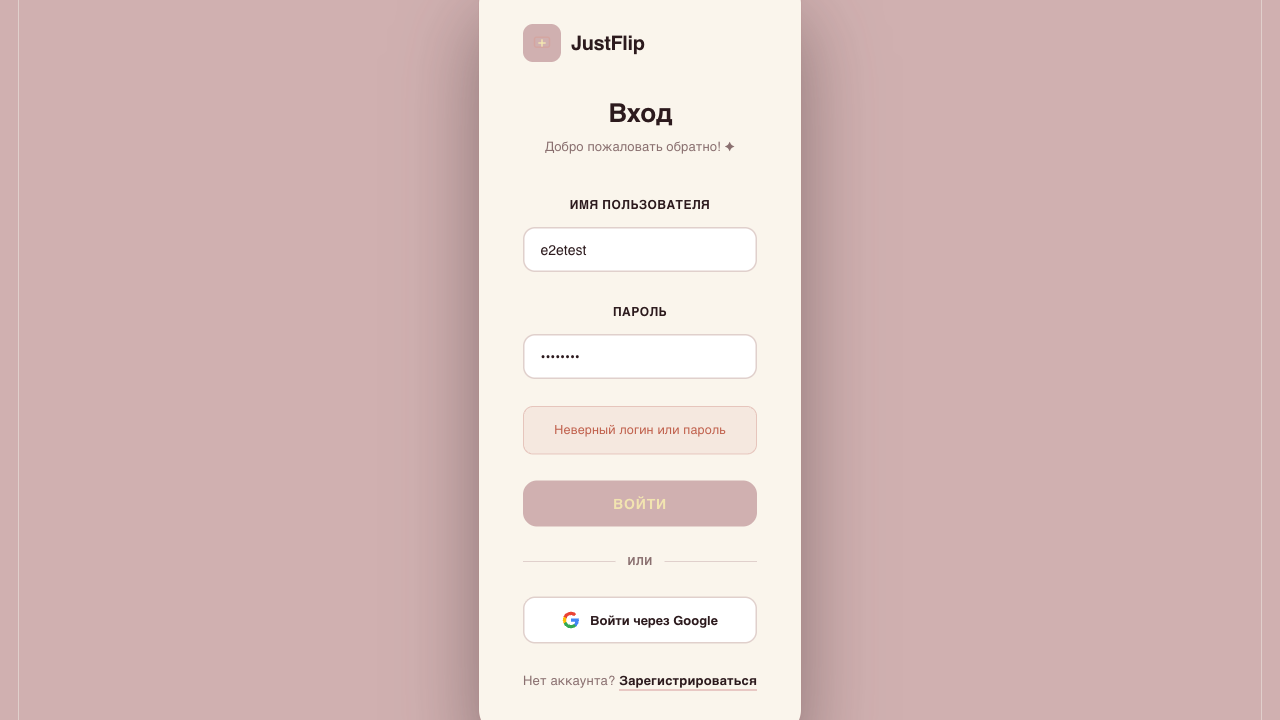
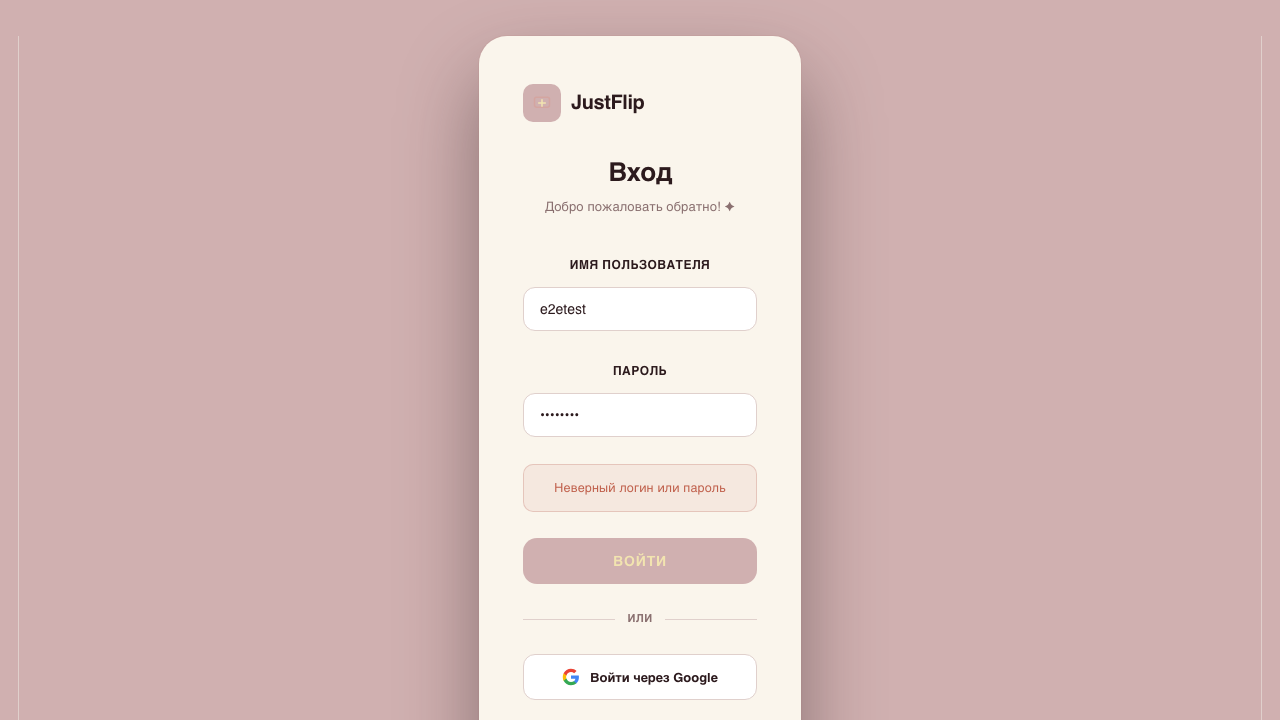
nothing

diff --git a/justflip-frontend/playwright-report/index.html b/justflip-frontend/playwright-report/index.html
@@ -87,4 +87,4 @@ Error generating stack: `+l.message+`
     <div id='root'></div>
   </body>
 </html>
[2 lines of base64/hex data omitted]

diff --git a/justflip-frontend/src/pages/Dashboard.jsx b/justflip-frontend/src/pages/Dashboard.jsx
@@ -21,7 +21,6 @@ function Dashboard() {
   const [showEditModal, setShowEditModal] = useState(false)
   const [editTitle, setEditTitle] = useState('')
   const [editDescription, setEditDescription] = useState('')
-
   const navigate = useNavigate()
 
   useEffect(() => {

diff --git a/justflip-frontend/test-results/auth-Авторизация-выход-из-аккаунта-chromium/error-context.md b/justflip-frontend/test-results/auth-Авторизация-выход-из-аккаунта-chromium/error-context.md
@@ -70,13 +70,13 @@ Call log:
   7  |     
   8  |     await page.goto('http://localhost:5173/register')
   9  |     
-  10 |     // ✅ Селекторы по ID
+  10 |     // Селекторы по ID
   11 |     await page.fill('#username', username)
   12 |     await page.fill('#email', `${username}@test.com`)
   13 |     await page.fill('#password', 'Test123!')
   14 |     await page.click('button[type="submit"]')
   15 |     
-  16 |     // ✅ Ждём элемент дашборда
+  16 |     // Ждём элемент дашборда
   17 |     await page.waitForSelector('.logo-text', { timeout: 20000 })
   18 |     await expect(page.locator('.logo-text')).toContainText('JustFlip')
   19 |   })
@@ -96,7 +96,7 @@ Call log:
   33 |   })
   34 | 
   35 |   test('выход из аккаунта', async ({ authenticatedPage }) => {
-  36 |     // ✅ Кнопка "Выйти" имеет класс btn-logout
+  36 |     // Кнопка "Выйти" имеет класс btn-logout
 > 37 |     await authenticatedPage.click('button.btn-logout')
      |                             ^ Error: page.click: Test timeout of 30000ms exceeded.
   38 |     await authenticatedPage.waitForSelector('#username', { timeout: 10000 })

diff --git a/justflip-frontend/test-results/deck-management-Управление-колодами-добавление-слов-в-колоду-chromium/error-context.md b/justflip-frontend/test-results/deck-management-Управление-колодами-добавление-слов-в-колоду-chromium/error-context.md
@@ -69,7 +69,7 @@ Call log:
   6  |   })
   7  | 
   8  |   test('создание новой колоды', async ({ authenticatedPage: page }) => {
-  9  |     // ✅ Кнопка в хедере имеет класс btn-new-deck
+  9  |     // Кнопка в хедере имеет класс btn-new-deck
   10 |     await page.click('button.btn-new-deck')
   11 |     
   12 |     await page.fill('#title', 'E2E Test Deck')
@@ -92,7 +92,7 @@ Call log:
   28 |     // Добавляем слово
   29 |     await page.click('button.btn-add-word')
   30 |     
-  31 |     // ✅ В Deck.jsx инпуты без id — используем label + input
+  31 |     // В Deck.jsx инпуты без id — используем label + input
   32 |     await page.locator('label:has-text("Слово / термин") + input').fill('apple')
   33 |     await page.locator('label:has-text("Перевод / определение") + input').fill('яблоко')
   34 |     

diff --git a/justflip-frontend/test-results/deck-management-Управление-колодами-создание-новой-колоды-chromium/error-context.md b/justflip-frontend/test-results/deck-management-Управление-колодами-создание-новой-колоды-chromium/error-context.md
@@ -69,7 +69,7 @@ Call log:
   6  |   })
   7  | 
   8  |   test('создание новой колоды', async ({ authenticatedPage: page }) => {
-  9  |     // ✅ Кнопка в хедере имеет класс btn-new-deck
+  9  |     // Кнопка в хедере имеет класс btn-new-deck
 > 10 |     await page.click('button.btn-new-deck')
      |                ^ Error: page.click: Test timeout of 30000ms exceeded.
   11 |     
@@ -92,7 +92,7 @@ Call log:
   28 |     // Добавляем слово
   29 |     await page.click('button.btn-add-word')
   30 |     
-  31 |     // ✅ В Deck.jsx инпуты без id — используем label + input
+  31 |     // В Deck.jsx инпуты без id — используем label + input
   32 |     await page.locator('label:has-text("Слово / термин") + input').fill('apple')
   33 |     await page.locator('label:has-text("Перевод / определение") + input').fill('яблоко')
   34 |     